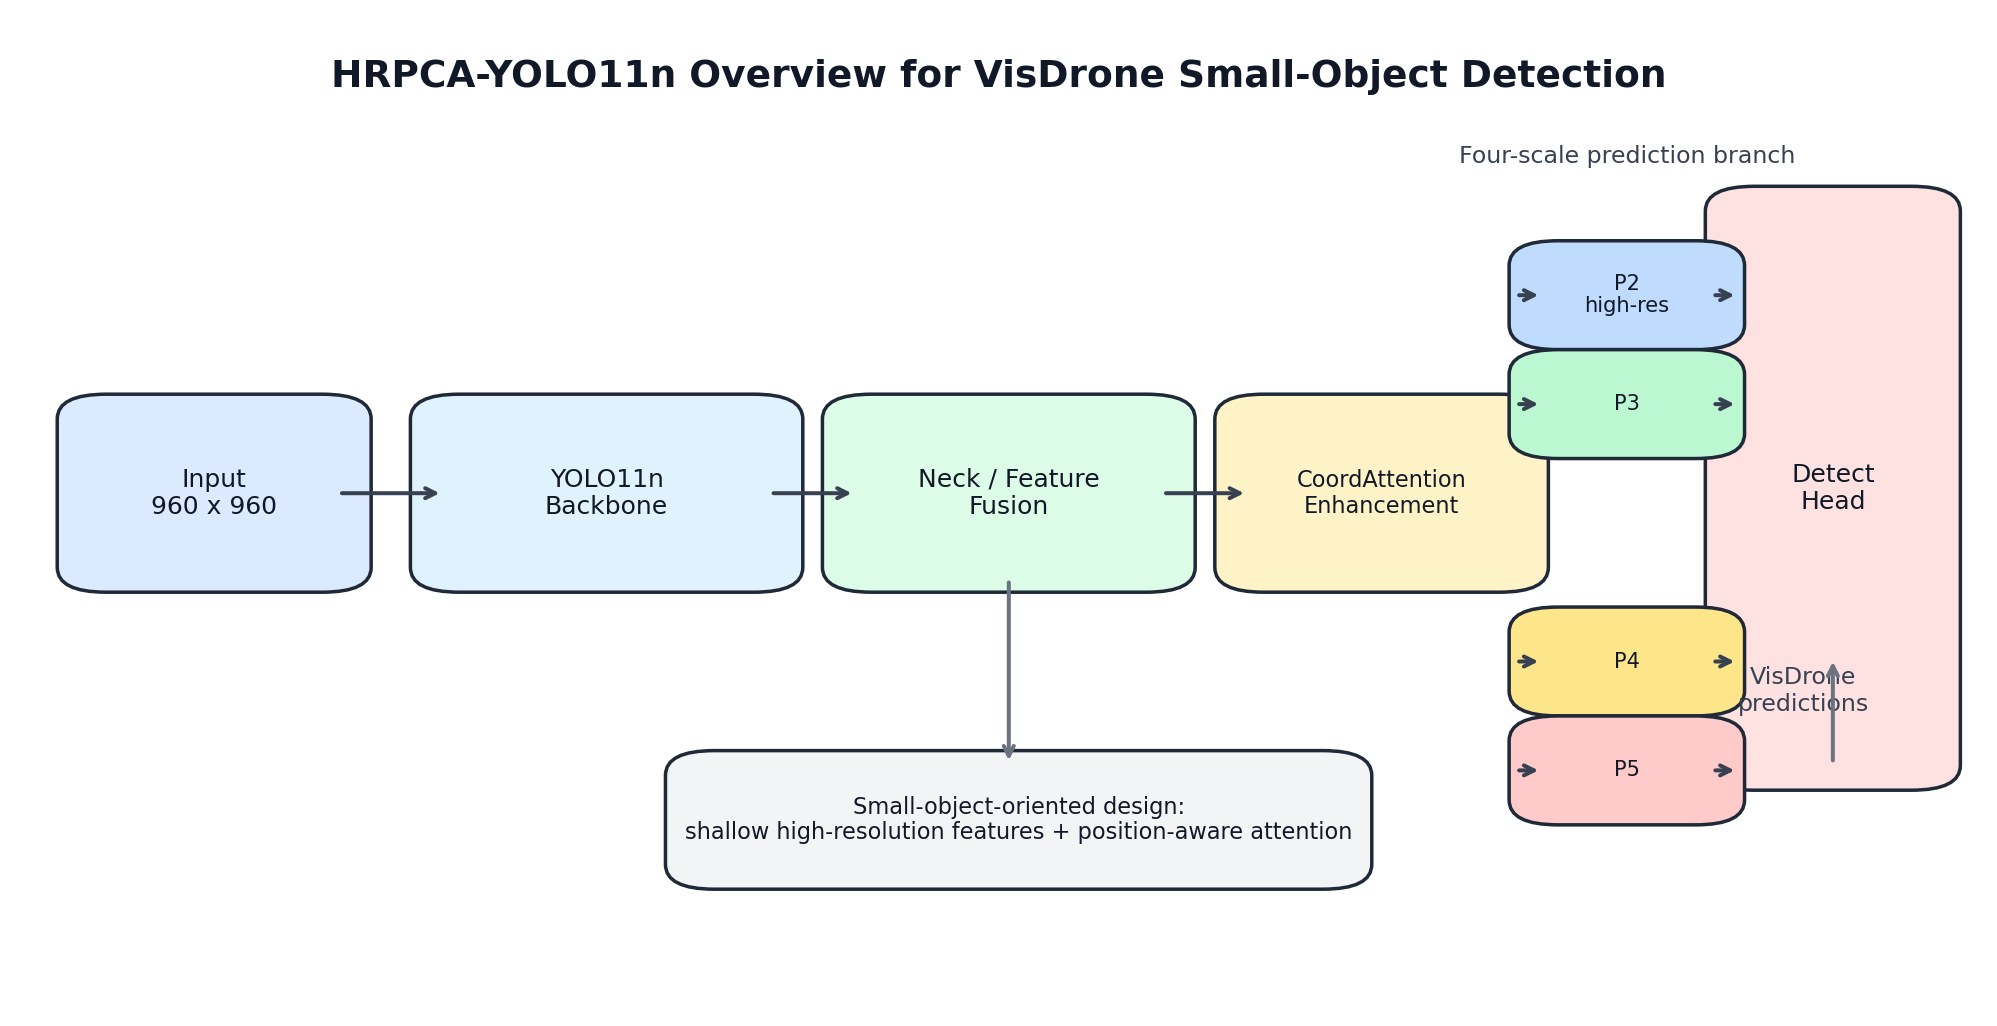
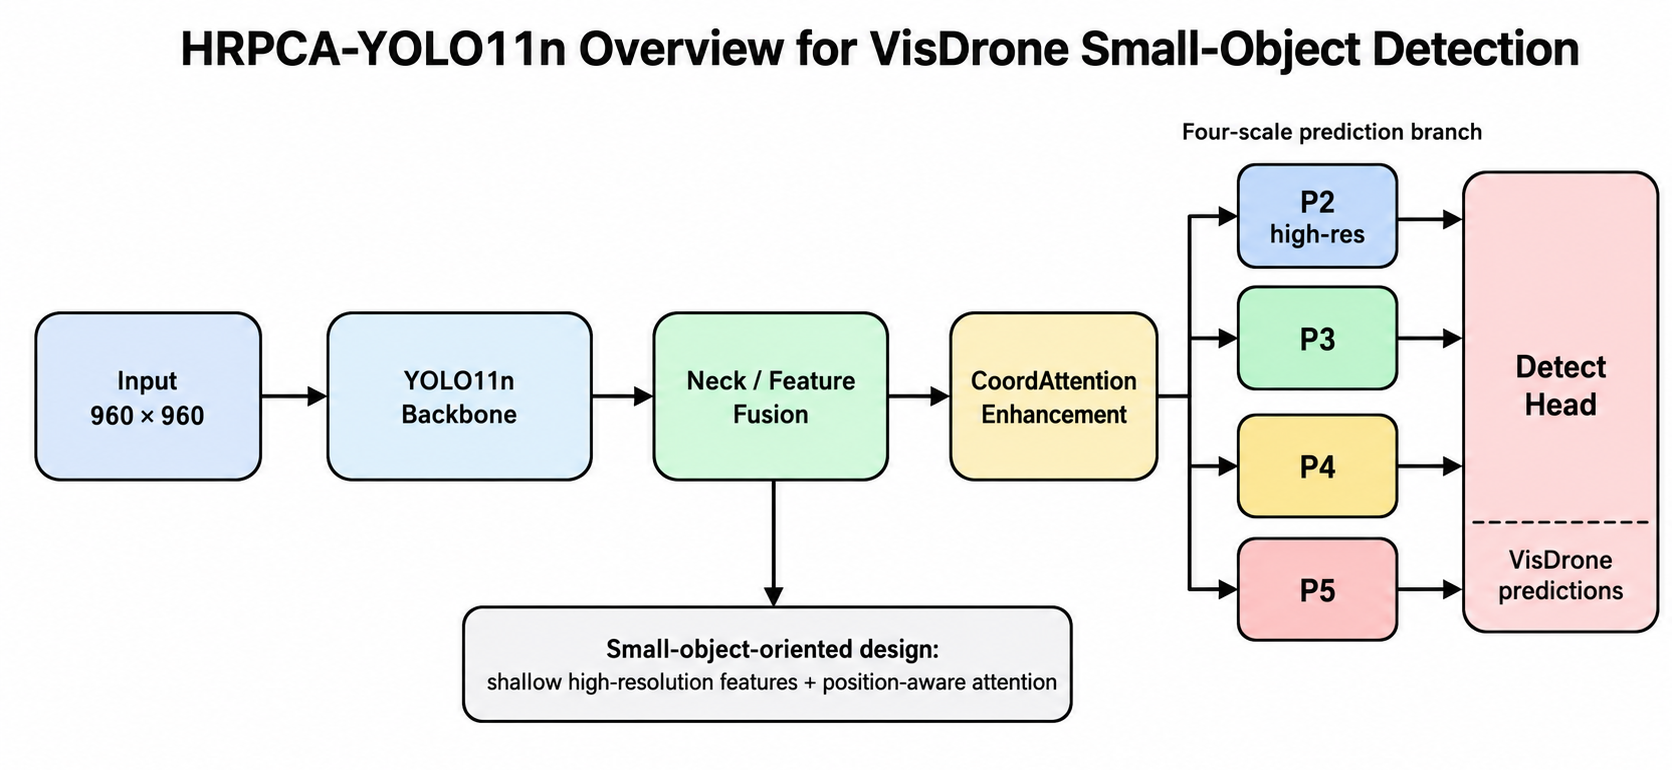
Replace method overview figure

Changed region(s): [[0.0, 0.1247, 0.9952, 0.9351], [0.0933, 0.0312, 0.9641, 0.0935], [0.2799, 0.9351, 0.622, 0.9662]]

diff --git a/paper/advisor_review_package_manifest.md b/paper/advisor_review_package_manifest.md
@@ -9,7 +9,7 @@ The zip package is intended for advisor review only. It contains manuscript-faci
 - Zip file: `paper/advisor_review_package.zip`
 - Ready files: 41
 - Missing files: 0
-- Zip size: 5.05 MB
+- Zip size: 6.33 MB
 
 ## Included Files
 
@@ -19,7 +19,7 @@ The zip package is intended for advisor review only. It contains manuscript-faci
 | `paper/README.md` | 12.3 KB | Paper workspace navigation. |
 | `paper/manuscript_submission_candidate.pdf` | 1.65 MB | Current PDF manuscript preview. |
 | `paper/manuscript_submission_candidate.tex` | 43.9 KB | Current LaTeX source. |
-| `paper/cea_template_migration/manuscript_cea_template_draft.docx` | 1.64 MB | First-pass CEA Word-template migration draft. |
+| `paper/cea_template_migration/manuscript_cea_template_draft.docx` | 2.28 MB | First-pass CEA Word-template migration draft. |
 | `paper/cea_template_migration/cea_word_migration_audit.md` | 2.7 KB | Audit report for the CEA Word migration draft. |
 | `paper/cea_template_migration/cea_word_draft_quality_audit.md` | 2.4 KB | Mechanical quality audit for the CEA Word draft. |
 | `paper/advisor_review_note.md` | 5.9 KB | Short cover note for advisor review. |
@@ -50,7 +50,7 @@ The zip package is intended for advisor review only. It contains manuscript-faci
 | `paper/tables/object_scale_distribution.csv` | 255 B | Object scale distribution table. |
 | `paper/tables/scale_group_results.csv` | 1002 B | Scale-group matching table. |
 | `paper/tables/per_class_results.csv` | 12.0 KB | Per-class result table. |
-| `paper/figures/method/hrpca_yolo11n_overview.png` | 127.7 KB | Method overview figure. |
+| `paper/figures/method/hrpca_yolo11n_overview.png` | 772.3 KB | Method overview figure. |
 | `paper/figures/tradeoff/accuracy_speed_tradeoff.png` | 122.6 KB | Accuracy-speed trade-off figure. |
 | `paper/figures/scale_analysis/object_scale_distribution.png` | 33.2 KB | Object scale distribution figure. |
 | `paper/figures/scale_analysis/scale_group_recall.png` | 44.7 KB | Scale-group recall figure. |

diff --git a/paper/submission_material_manifest.md b/paper/submission_material_manifest.md
@@ -16,7 +16,7 @@ It is a material index, not a claim that the manuscript is final-submission-read
 | --- | --- | --- | --- | --- |
 | Core Documents | LaTeX source | READY | `paper/manuscript_submission_candidate.tex` | 43.9 KB |
 | Core Documents | Compiled PDF | READY | `paper/manuscript_submission_candidate.pdf` | 1.65 MB |
-| Core Documents | CEA Word migration draft | READY | `paper/cea_template_migration/manuscript_cea_template_draft.docx` | 1.64 MB |
+| Core Documents | CEA Word migration draft | READY | `paper/cea_template_migration/manuscript_cea_template_draft.docx` | 2.28 MB |
 | Core Documents | CEA Word migration audit | READY | `paper/cea_template_migration/cea_word_migration_audit.md` | 2.7 KB |
 | Core Documents | CEA Word draft quality audit | READY | `paper/cea_template_migration/cea_word_draft_quality_audit.md` | 2.4 KB |
 | Core Documents | Paper workspace README | READY | `paper/README.md` | 12.3 KB |
@@ -45,7 +45,7 @@ It is a material index, not a claim that the manuscript is final-submission-read
 | Core Documents | GitHub public view audit | READY | `paper/github_public_view_audit.md` | 2.1 KB |
 | Core Documents | CEA template migration record | READY | `paper/CEA_TEMPLATE_MIGRATION_RECORD.md` | 5.3 KB |
 | Core Documents | Advisor review package manifest | READY | `paper/advisor_review_package_manifest.md` | 4.8 KB |
-| Core Documents | Advisor review package zip | READY | `paper/advisor_review_package.zip` | 5.05 MB |
+| Core Documents | Advisor review package zip | READY | `paper/advisor_review_package.zip` | 6.33 MB |
 | Core Documents | Advisor review note | READY | `paper/advisor_review_note.md` | 5.9 KB |
 | Core Documents | Advisor progress brief | READY | `paper/advisor_progress_brief.md` | 5.8 KB |
 | Core Documents | Execution log | READY | `paper/CEA_EXECUTION_LOG.md` | 49.8 KB |
@@ -61,7 +61,7 @@ It is a material index, not a claim that the manuscript is final-submission-read
 | Tables | Accuracy-speed trade-off table | READY | `paper/tables/accuracy_speed_tradeoff.csv` | 12 data rows |
 | Tables | Fair experiment status table | READY | `paper/tables/cea_experiment_status.csv` | 5 data rows |
 | Tables | Server status history table | READY | `paper/tables/cea_server_status_history.csv` | 195 data rows |
-| Figures | Method overview figure | READY | `paper/figures/method/hrpca_yolo11n_overview.png` | 127.7 KB |
+| Figures | Method overview figure | READY | `paper/figures/method/hrpca_yolo11n_overview.png` | 772.3 KB |
 | Figures | Training curve figure | READY | `paper/figures/training_curves/p2_coordatt_960_results.png` | 243.1 KB |
 | Figures | PR curve figure | READY | `paper/figures/training_curves/p2_coordatt_960_pr_curve.png` | 333.9 KB |
 | Figures | Confusion matrix figure | READY | `paper/figures/confusion_matrices/p2_coordatt_960_confusion_matrix_normalized.png` | 285.3 KB |

diff --git a/paper/cea_template_migration/cea_word_migration_audit.md b/paper/cea_template_migration/cea_word_migration_audit.md
@@ -18,7 +18,7 @@ This report is generated by `tools/build_cea_word_draft.py`. It records the firs
 
 ## Embedded Image Sizes
 
-hrpca_yolo11n_overview.png: 1997x1026px -> 5.45x2.80in, layout=full, scale=0.262; p2_coordatt_960_results.png: 2400x1200px -> 5.45x2.73in, layout=full, scale=0.218; object_scale_distribution.png: 1240x720px -> 3.20x1.86in, layout=column, scale=0.248; scale_group_recall.png: 1280x760px -> 3.20x1.90in, layout=column, scale=0.240; p2_coordatt_960_val_batch0_pred.jpg: 1920x1116px -> 6.35x3.69in, layout=full, scale=0.318; p2_case_contact_sheet_word_part1.jpg: 894x702px -> 6.35x4.99in, layout=full, scale=0.682; p2_case_contact_sheet_word_part2.jpg: 894x702px -> 6.35x4.99in, layout=full, scale=0.682; p2_case_contact_sheet_word_part3.jpg: 894x702px -> 6.35x4.99in, layout=full, scale=0.682
+hrpca_yolo11n_overview.png: 1672x770px -> 5.45x2.51in, layout=full, scale=0.313; p2_coordatt_960_results.png: 2400x1200px -> 5.45x2.73in, layout=full, scale=0.218; object_scale_distribution.png: 1240x720px -> 3.20x1.86in, layout=column, scale=0.248; scale_group_recall.png: 1280x760px -> 3.20x1.90in, layout=column, scale=0.240; p2_coordatt_960_val_batch0_pred.jpg: 1920x1116px -> 6.35x3.69in, layout=full, scale=0.318; p2_case_contact_sheet_word_part1.jpg: 894x702px -> 6.35x4.99in, layout=full, scale=0.682; p2_case_contact_sheet_word_part2.jpg: 894x702px -> 6.35x4.99in, layout=full, scale=0.682; p2_case_contact_sheet_word_part3.jpg: 894x702px -> 6.35x4.99in, layout=full, scale=0.682
 
 ## Manual Gates Remaining
 